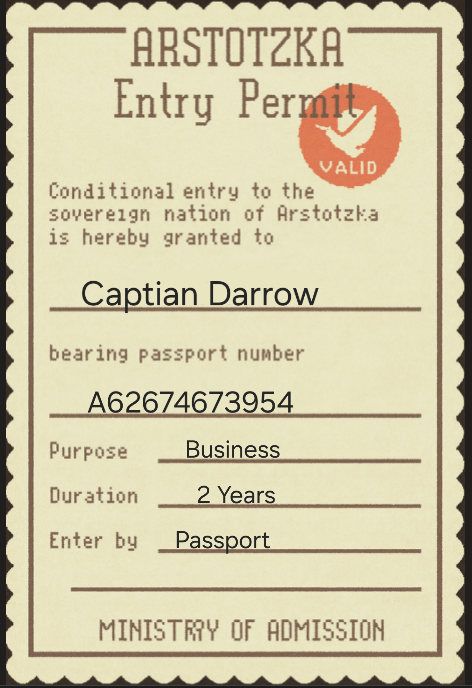
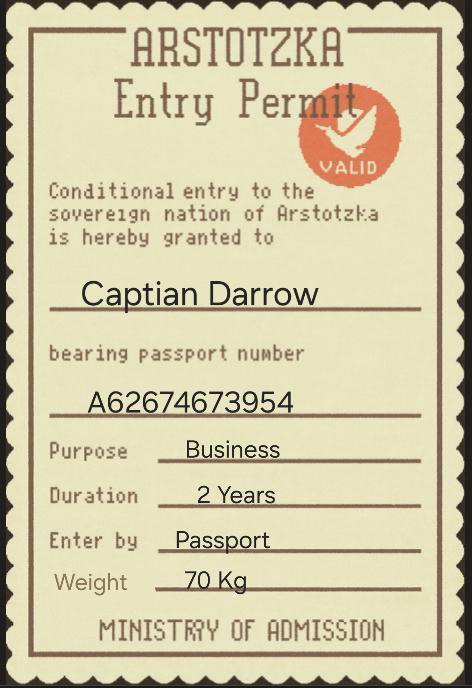
character weight fit entry permit and fix weight position

diff --git a/main.py b/main.py
@@ -77,6 +77,12 @@ entry_permit_3 = Image('image/entry_permit_3.png',(236,344),255, show=False)
 
 entry_permit_list = [entry_permit_1,entry_permit_2,entry_permit_3]
 
+xray_1 = Image('image/character_1_xray.jpg',(512,768),255, show=False)
+xray_2 = Image('image/character_2_xray.jpg',(512,768),255, show=False)
+xray_3 = Image('image/character_3_xray.jpg',(512,768),255, show=False)
+
+xray_list = [xray_1,xray_2,xray_3]
+
 tutorial = Image('image/tutorial.png', (984, 660), 255, show=False)
 # guard image
 guard = Image('image/guard.png', (500, 500), 255, show=False)
@@ -228,9 +234,11 @@ def new_round(last_index):
     passport_list[passport_index].show = True
     character_list[character_index].show = True
 
+
+
     # generate random weight for this character
-    current_weight = random.randint(50, 90)
     selected_character_index = character_index
+    current_weight = character_weight()
 
     dialogue_manager.set_character(CHARACTER_DIALOGUE_MAP[character_index])
 
@@ -245,6 +253,11 @@ def new_round(last_index):
         d.show = False
 
     return character_index
+
+
+def character_weight():
+    character_weight_dict = {0:"70",1:"13",2:"27"}
+    return character_weight_dict[selected_character_index]
 
 
 running = True
@@ -416,8 +429,8 @@ while running:
 
             # draw weight label
             if current_weight is not None:
-                weight_text = pixel_font.render(f"{current_weight} kg", True, (0, 0, 0))
-                screen.blit(weight_text, (419, 383))
+                weight_text = pixel_font.render(f"{current_weight}kg", True, (0, 0, 0))
+                screen.blit(weight_text, weight_text.get_rect(center=(471, 413)))
 
             # draw next button
             btn_x1, btn_y1 = next_button_range[0]
